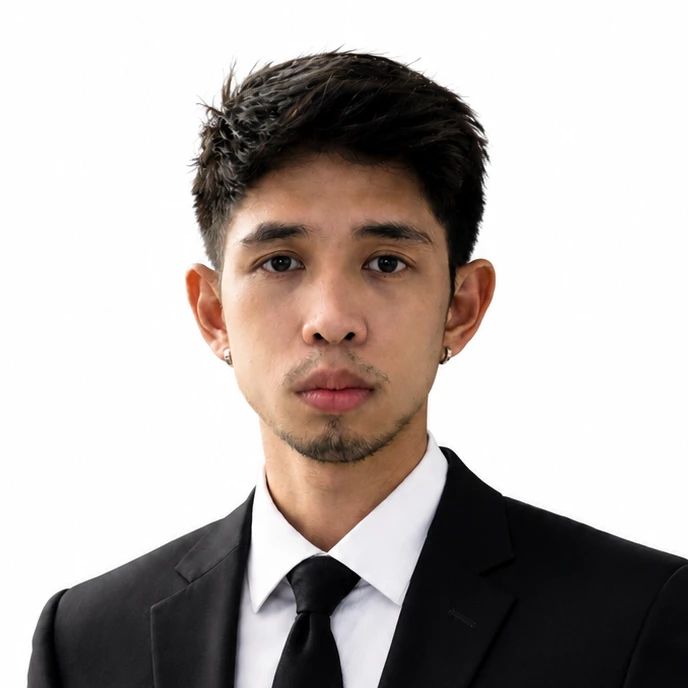
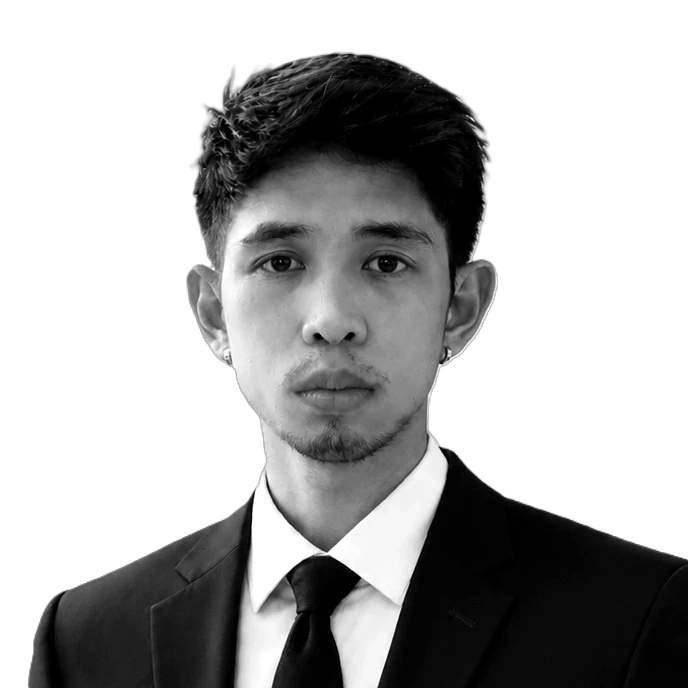
feat: implement real-time visitor tracking and live stats UI widgets

diff --git a/script.js b/script.js
@@ -1234,21 +1234,19 @@
      ========================================================================== */
   function initVisitorStats() {
     const TOTAL_VISITS_KEY = 'site_total_visits_v1';
-
     const isProduction = !['localhost', '127.0.0.1'].includes(location.hostname);
-    let totalVisits = 0;
+
+    const BASE_TOTAL_VISITS = 7; // Preserved baseline visits count
+    let totalVisits = BASE_TOTAL_VISITS;
     
-    if (isProduction) {
-      try {
-        const stored = localStorage.getItem(TOTAL_VISITS_KEY);
-        if (stored) totalVisits = parseInt(stored, 10) || 0;
-      } catch (e) { }
-    } else {
-      // Deterministic total visits for local development so multiple browsers match perfectly.
-      // E.g., baseline of 32 plus 1 visit every ~2 hours since a specific date
-      const baseDate = 1714521600000; 
-      totalVisits = 32 + Math.floor((Date.now() - baseDate) / (1000 * 60 * 60 * 2));
-    }
+    try {
+      const stored = localStorage.getItem(TOTAL_VISITS_KEY);
+      if (stored) {
+        totalVisits = Math.max(totalVisits, parseInt(stored, 10) || 0);
+      } else {
+        localStorage.setItem(TOTAL_VISITS_KEY, totalVisits.toString());
+      }
+    } catch (e) { }
 
     function updateTotalVisitsUi() {
       document.querySelectorAll('[data-total-visits]').forEach(el => {
@@ -1305,8 +1303,7 @@
       });
     }
 
-    // Only call the visitor API on production (Vercel), skip on localhost
-
+    // Call visitor API on production
     async function sendHeartbeat() {
       if (!isProduction) return;
       
@@ -1320,14 +1317,28 @@
           updateLiveUi();
         }
         if (typeof data.total === 'number') {
-          totalVisits = data.total;
-          try { localStorage.setItem(TOTAL_VISITS_KEY, totalVisits.toString()); } catch (e) { }
-          updateTotalVisitsUi();
+          // Only update and store if greater than current visits (never decrease on cold restart)
+          if (data.total > totalVisits) {
+            totalVisits = data.total;
+            try { localStorage.setItem(TOTAL_VISITS_KEY, totalVisits.toString()); } catch (e) { }
+            updateTotalVisitsUi();
+          }
         }
       } catch (e) {
         // Network error
       }
     }
+
+    // Sync across tabs
+    window.addEventListener('storage', (e) => {
+      if (e.key === TOTAL_VISITS_KEY && e.newValue) {
+        const val = parseInt(e.newValue, 10);
+        if (val && val > totalVisits) {
+          totalVisits = val;
+          updateTotalVisitsUi();
+        }
+      }
+    });
 
     updateLiveUi();
     sendHeartbeat();

diff --git a/index.html b/index.html
@@ -4,7 +4,7 @@
 <head>
   <meta charset="utf-8">
   <meta name="viewport" content="width=device-width, initial-scale=1">
-  <title>Wendell Rebusit — Full-Stack Software Developer &amp; System Builder</title>
+  <title>Wendell Rebusit — Full-Stack Software Developer</title>
   <meta name="description"
     content="Full-Stack Software Developer, Lead Developer, IT/Network Technician, and System Builder. Building real-world web and mobile business applications.">
   <meta name="theme-color" content="#0a0a0a">
@@ -258,9 +258,30 @@
       <div class="sidebar-divider"></div>
 
       <button type="button" onclick="closeMobileNav(); setTimeout(openAsk, 250);" class="nav-link"
-        style="font-size: 14px;">Ask anything (⌘K)</button>
-      <button type="button" onclick="closeMobileNav(); setTimeout(openTyping, 250);" class="nav-link"
-        style="font-size: 14px;">Typing test (⌘J)</button>
+        style="font-size: 14px;">
+        <span>ask anything</span>
+        <span style="display: inline-flex; align-items: center; gap: 4px;">
+          <kbd
+            style="padding: 1px 5px; border-radius: 4px; border: 1px solid rgb(var(--g300)); font-size: 10px; background: rgb(var(--g100));">Alt</kbd>
+          <span style="font-size: 10px;">+</span>
+          <kbd
+            style="padding: 1px 5px; border-radius: 4px; border: 1px solid rgb(var(--g300)); font-size: 10px; background: rgb(var(--g100));">K</kbd>
+        </span>
+      </button>
+
+      <!-- Live Active Visitors Pill -->
+      <div
+        style="margin-top: 1.25rem; padding-block: 0.9rem; border-top: 1px solid rgb(var(--g200)); border-bottom: 1px solid rgb(var(--g200));">
+        <div style="display: flex; align-items: center; justify-content: space-between;">
+          <div class="presence-icons" data-presence-avatars style="display: flex; align-items: center;"></div>
+          <span class="font-mono" style="font-size: 10.5px; color: rgb(var(--g400));">
+            <b data-total-visits style="color: rgb(var(--ink)); font-weight: 700;">0</b> visits
+          </span>
+        </div>
+        <p class="font-mono" style="font-size: 10.5px; color: rgb(var(--g400)); margin-top: 0.35rem;">
+          <b data-live-visitors style="color: rgb(var(--ink)); font-weight: 700;">0</b> people viewing now
+        </p>
+      </div>
 
       <div style="margin-top: 1.5rem;">
         <p style="font-size: 12px; color: rgb(var(--g400));">Email me:</p>

diff --git a/projects.html b/projects.html
@@ -255,10 +255,27 @@
 
             <div class="sidebar-divider"></div>
 
-            <button type="button" onclick="closeMobileNav(); setTimeout(openAsk, 250);" class="nav-link"
-                style="font-size: 14px;">Ask anything (⌘K)</button>
-            <button type="button" onclick="closeMobileNav(); setTimeout(openTyping, 250);" class="nav-link"
-                style="font-size: 14px;">Typing test (⌘J)</button>
+            <button type="button" onclick="closeMobileNav(); setTimeout(openAsk, 250);" class="nav-link" style="font-size: 14px;">
+                <span>ask anything</span>
+                <span style="display: inline-flex; align-items: center; gap: 4px;">
+                    <kbd style="padding: 1px 5px; border-radius: 4px; border: 1px solid rgb(var(--g300)); font-size: 10px; background: rgb(var(--g100));">Alt</kbd>
+                    <span style="font-size: 10px;">+</span>
+                    <kbd style="padding: 1px 5px; border-radius: 4px; border: 1px solid rgb(var(--g300)); font-size: 10px; background: rgb(var(--g100));">K</kbd>
+                </span>
+            </button>
+
+            <!-- Live Active Visitors Pill -->
+            <div style="margin-top: 1.25rem; padding-block: 0.9rem; border-top: 1px solid rgb(var(--g200)); border-bottom: 1px solid rgb(var(--g200));">
+                <div style="display: flex; align-items: center; justify-content: space-between;">
+                    <div class="presence-icons" data-presence-avatars style="display: flex; align-items: center;"></div>
+                    <span class="font-mono" style="font-size: 10.5px; color: rgb(var(--g400));">
+                        <b data-total-visits style="color: rgb(var(--ink)); font-weight: 700;">0</b> visits
+                    </span>
+                </div>
+                <p class="font-mono" style="font-size: 10.5px; color: rgb(var(--g400)); margin-top: 0.35rem;">
+                    <b data-live-visitors style="color: rgb(var(--ink)); font-weight: 700;">0</b> people viewing now
+                </p>
+            </div>
 
             <div style="margin-top: 1.5rem;">
                 <p style="font-size: 12px; color: rgb(var(--g400));">Email me:</p>

diff --git a/stack.html b/stack.html
@@ -256,10 +256,27 @@
 
             <div class="sidebar-divider"></div>
 
-            <button type="button" onclick="closeMobileNav(); setTimeout(openAsk, 250);" class="nav-link"
-                style="font-size: 14px;">Ask anything (⌘K)</button>
-            <button type="button" onclick="closeMobileNav(); setTimeout(openTyping, 250);" class="nav-link"
-                style="font-size: 14px;">Typing test (⌘J)</button>
+            <button type="button" onclick="closeMobileNav(); setTimeout(openAsk, 250);" class="nav-link" style="font-size: 14px;">
+                <span>ask anything</span>
+                <span style="display: inline-flex; align-items: center; gap: 4px;">
+                    <kbd style="padding: 1px 5px; border-radius: 4px; border: 1px solid rgb(var(--g300)); font-size: 10px; background: rgb(var(--g100));">Alt</kbd>
+                    <span style="font-size: 10px;">+</span>
+                    <kbd style="padding: 1px 5px; border-radius: 4px; border: 1px solid rgb(var(--g300)); font-size: 10px; background: rgb(var(--g100));">K</kbd>
+                </span>
+            </button>
+
+            <!-- Live Active Visitors Pill -->
+            <div style="margin-top: 1.25rem; padding-block: 0.9rem; border-top: 1px solid rgb(var(--g200)); border-bottom: 1px solid rgb(var(--g200));">
+                <div style="display: flex; align-items: center; justify-content: space-between;">
+                    <div class="presence-icons" data-presence-avatars style="display: flex; align-items: center;"></div>
+                    <span class="font-mono" style="font-size: 10.5px; color: rgb(var(--g400));">
+                        <b data-total-visits style="color: rgb(var(--ink)); font-weight: 700;">0</b> visits
+                    </span>
+                </div>
+                <p class="font-mono" style="font-size: 10.5px; color: rgb(var(--g400)); margin-top: 0.35rem;">
+                    <b data-live-visitors style="color: rgb(var(--ink)); font-weight: 700;">0</b> people viewing now
+                </p>
+            </div>
 
             <div style="margin-top: 1.5rem;">
                 <p style="font-size: 12px; color: rgb(var(--g400));">Email me:</p>

diff --git a/cert.html b/cert.html
@@ -247,10 +247,27 @@
 
       <div class="sidebar-divider"></div>
 
-      <button type="button" onclick="closeMobileNav(); setTimeout(openAsk, 250);" class="nav-link"
-        style="font-size: 14px;">Ask anything (⌘K)</button>
-      <button type="button" onclick="closeMobileNav(); setTimeout(openTyping, 250);" class="nav-link"
-        style="font-size: 14px;">Typing test (⌘J)</button>
+      <button type="button" onclick="closeMobileNav(); setTimeout(openAsk, 250);" class="nav-link" style="font-size: 14px;">
+        <span>ask anything</span>
+        <span style="display: inline-flex; align-items: center; gap: 4px;">
+          <kbd style="padding: 1px 5px; border-radius: 4px; border: 1px solid rgb(var(--g300)); font-size: 10px; background: rgb(var(--g100));">Alt</kbd>
+          <span style="font-size: 10px;">+</span>
+          <kbd style="padding: 1px 5px; border-radius: 4px; border: 1px solid rgb(var(--g300)); font-size: 10px; background: rgb(var(--g100));">K</kbd>
+        </span>
+      </button>
+
+      <!-- Live Active Visitors Pill -->
+      <div style="margin-top: 1.25rem; padding-block: 0.9rem; border-top: 1px solid rgb(var(--g200)); border-bottom: 1px solid rgb(var(--g200));">
+        <div style="display: flex; align-items: center; justify-content: space-between;">
+          <div class="presence-icons" data-presence-avatars style="display: flex; align-items: center;"></div>
+          <span class="font-mono" style="font-size: 10.5px; color: rgb(var(--g400));">
+            <b data-total-visits style="color: rgb(var(--ink)); font-weight: 700;">0</b> visits
+          </span>
+        </div>
+        <p class="font-mono" style="font-size: 10.5px; color: rgb(var(--g400)); margin-top: 0.35rem;">
+          <b data-live-visitors style="color: rgb(var(--ink)); font-weight: 700;">0</b> people viewing now
+        </p>
+      </div>
 
       <div style="margin-top: 1.5rem;">
         <p style="font-size: 12px; color: rgb(var(--g400));">Email me:</p>

diff --git a/exp.html b/exp.html
@@ -247,10 +247,27 @@
 
       <div class="sidebar-divider"></div>
 
-      <button type="button" onclick="closeMobileNav(); setTimeout(openAsk, 250);" class="nav-link"
-        style="font-size: 14px;">Ask anything (⌘K)</button>
-      <button type="button" onclick="closeMobileNav(); setTimeout(openTyping, 250);" class="nav-link"
-        style="font-size: 14px;">Typing test (⌘J)</button>
+      <button type="button" onclick="closeMobileNav(); setTimeout(openAsk, 250);" class="nav-link" style="font-size: 14px;">
+        <span>ask anything</span>
+        <span style="display: inline-flex; align-items: center; gap: 4px;">
+          <kbd style="padding: 1px 5px; border-radius: 4px; border: 1px solid rgb(var(--g300)); font-size: 10px; background: rgb(var(--g100));">Alt</kbd>
+          <span style="font-size: 10px;">+</span>
+          <kbd style="padding: 1px 5px; border-radius: 4px; border: 1px solid rgb(var(--g300)); font-size: 10px; background: rgb(var(--g100));">K</kbd>
+        </span>
+      </button>
+
+      <!-- Live Active Visitors Pill -->
+      <div style="margin-top: 1.25rem; padding-block: 0.9rem; border-top: 1px solid rgb(var(--g200)); border-bottom: 1px solid rgb(var(--g200));">
+        <div style="display: flex; align-items: center; justify-content: space-between;">
+          <div class="presence-icons" data-presence-avatars style="display: flex; align-items: center;"></div>
+          <span class="font-mono" style="font-size: 10.5px; color: rgb(var(--g400));">
+            <b data-total-visits style="color: rgb(var(--ink)); font-weight: 700;">0</b> visits
+          </span>
+        </div>
+        <p class="font-mono" style="font-size: 10.5px; color: rgb(var(--g400)); margin-top: 0.35rem;">
+          <b data-live-visitors style="color: rgb(var(--ink)); font-weight: 700;">0</b> people viewing now
+        </p>
+      </div>
 
       <div style="margin-top: 1.5rem;">
         <p style="font-size: 12px; color: rgb(var(--g400));">Email me:</p>

diff --git a/github.html b/github.html
@@ -247,10 +247,27 @@
 
       <div class="sidebar-divider"></div>
 
-      <button type="button" onclick="closeMobileNav(); setTimeout(openAsk, 250);" class="nav-link"
-        style="font-size: 14px;">Ask anything (⌘K)</button>
-      <button type="button" onclick="closeMobileNav(); setTimeout(openTyping, 250);" class="nav-link"
-        style="font-size: 14px;">Typing test (⌘J)</button>
+      <button type="button" onclick="closeMobileNav(); setTimeout(openAsk, 250);" class="nav-link" style="font-size: 14px;">
+        <span>ask anything</span>
+        <span style="display: inline-flex; align-items: center; gap: 4px;">
+          <kbd style="padding: 1px 5px; border-radius: 4px; border: 1px solid rgb(var(--g300)); font-size: 10px; background: rgb(var(--g100));">Alt</kbd>
+          <span style="font-size: 10px;">+</span>
+          <kbd style="padding: 1px 5px; border-radius: 4px; border: 1px solid rgb(var(--g300)); font-size: 10px; background: rgb(var(--g100));">K</kbd>
+        </span>
+      </button>
+
+      <!-- Live Active Visitors Pill -->
+      <div style="margin-top: 1.25rem; padding-block: 0.9rem; border-top: 1px solid rgb(var(--g200)); border-bottom: 1px solid rgb(var(--g200));">
+        <div style="display: flex; align-items: center; justify-content: space-between;">
+          <div class="presence-icons" data-presence-avatars style="display: flex; align-items: center;"></div>
+          <span class="font-mono" style="font-size: 10.5px; color: rgb(var(--g400));">
+            <b data-total-visits style="color: rgb(var(--ink)); font-weight: 700;">0</b> visits
+          </span>
+        </div>
+        <p class="font-mono" style="font-size: 10.5px; color: rgb(var(--g400)); margin-top: 0.35rem;">
+          <b data-live-visitors style="color: rgb(var(--ink)); font-weight: 700;">0</b> people viewing now
+        </p>
+      </div>
 
       <div style="margin-top: 1.5rem;">
         <p style="font-size: 12px; color: rgb(var(--g400));">Email me:</p>

diff --git a/styles.css b/styles.css
@@ -448,13 +448,24 @@ html.theme-anim *::after {
   border-radius: 1.5rem;
   box-shadow: 0 16px 36px -12px rgb(var(--ink) / 0.12);
   border: 1px solid rgb(var(--g200));
-  background: rgb(var(--g100));
-  transition: transform 0.25s ease, box-shadow 0.25s ease;
+  background: rgb(var(--bg));
+  transition: transform 0.25s ease, box-shadow 0.25s ease, border-color 0.25s ease;
+}
+
+html.dark .gaze-canvas {
+  background: rgb(var(--bg));
+  border-color: rgb(var(--g200));
+  box-shadow: 0 16px 36px -12px rgba(0, 0, 0, 0.6);
 }
 
 .gaze-avatar-wrap:hover .gaze-canvas {
   transform: translateY(-2px);
   box-shadow: 0 24px 44px -14px rgb(var(--ink) / 0.18);
+}
+
+html.dark .gaze-avatar-wrap:hover .gaze-canvas {
+  border-color: rgb(var(--g300));
+  box-shadow: 0 24px 44px -14px rgba(0, 0, 0, 0.8);
 }
 
 /* Presence badges */

diff --git a/api/visitors.js b/api/visitors.js
@@ -4,7 +4,7 @@
 
 const visitors = new Map();    // sessionId -> lastHeartbeat timestamp
 const seenSessions = new Set(); // all unique session IDs ever seen
-let totalVisits = 0;
+let totalVisits = 7;
 const TIMEOUT = 60000; // 60 seconds before a visitor is considered gone
 
 function cleanup() {
